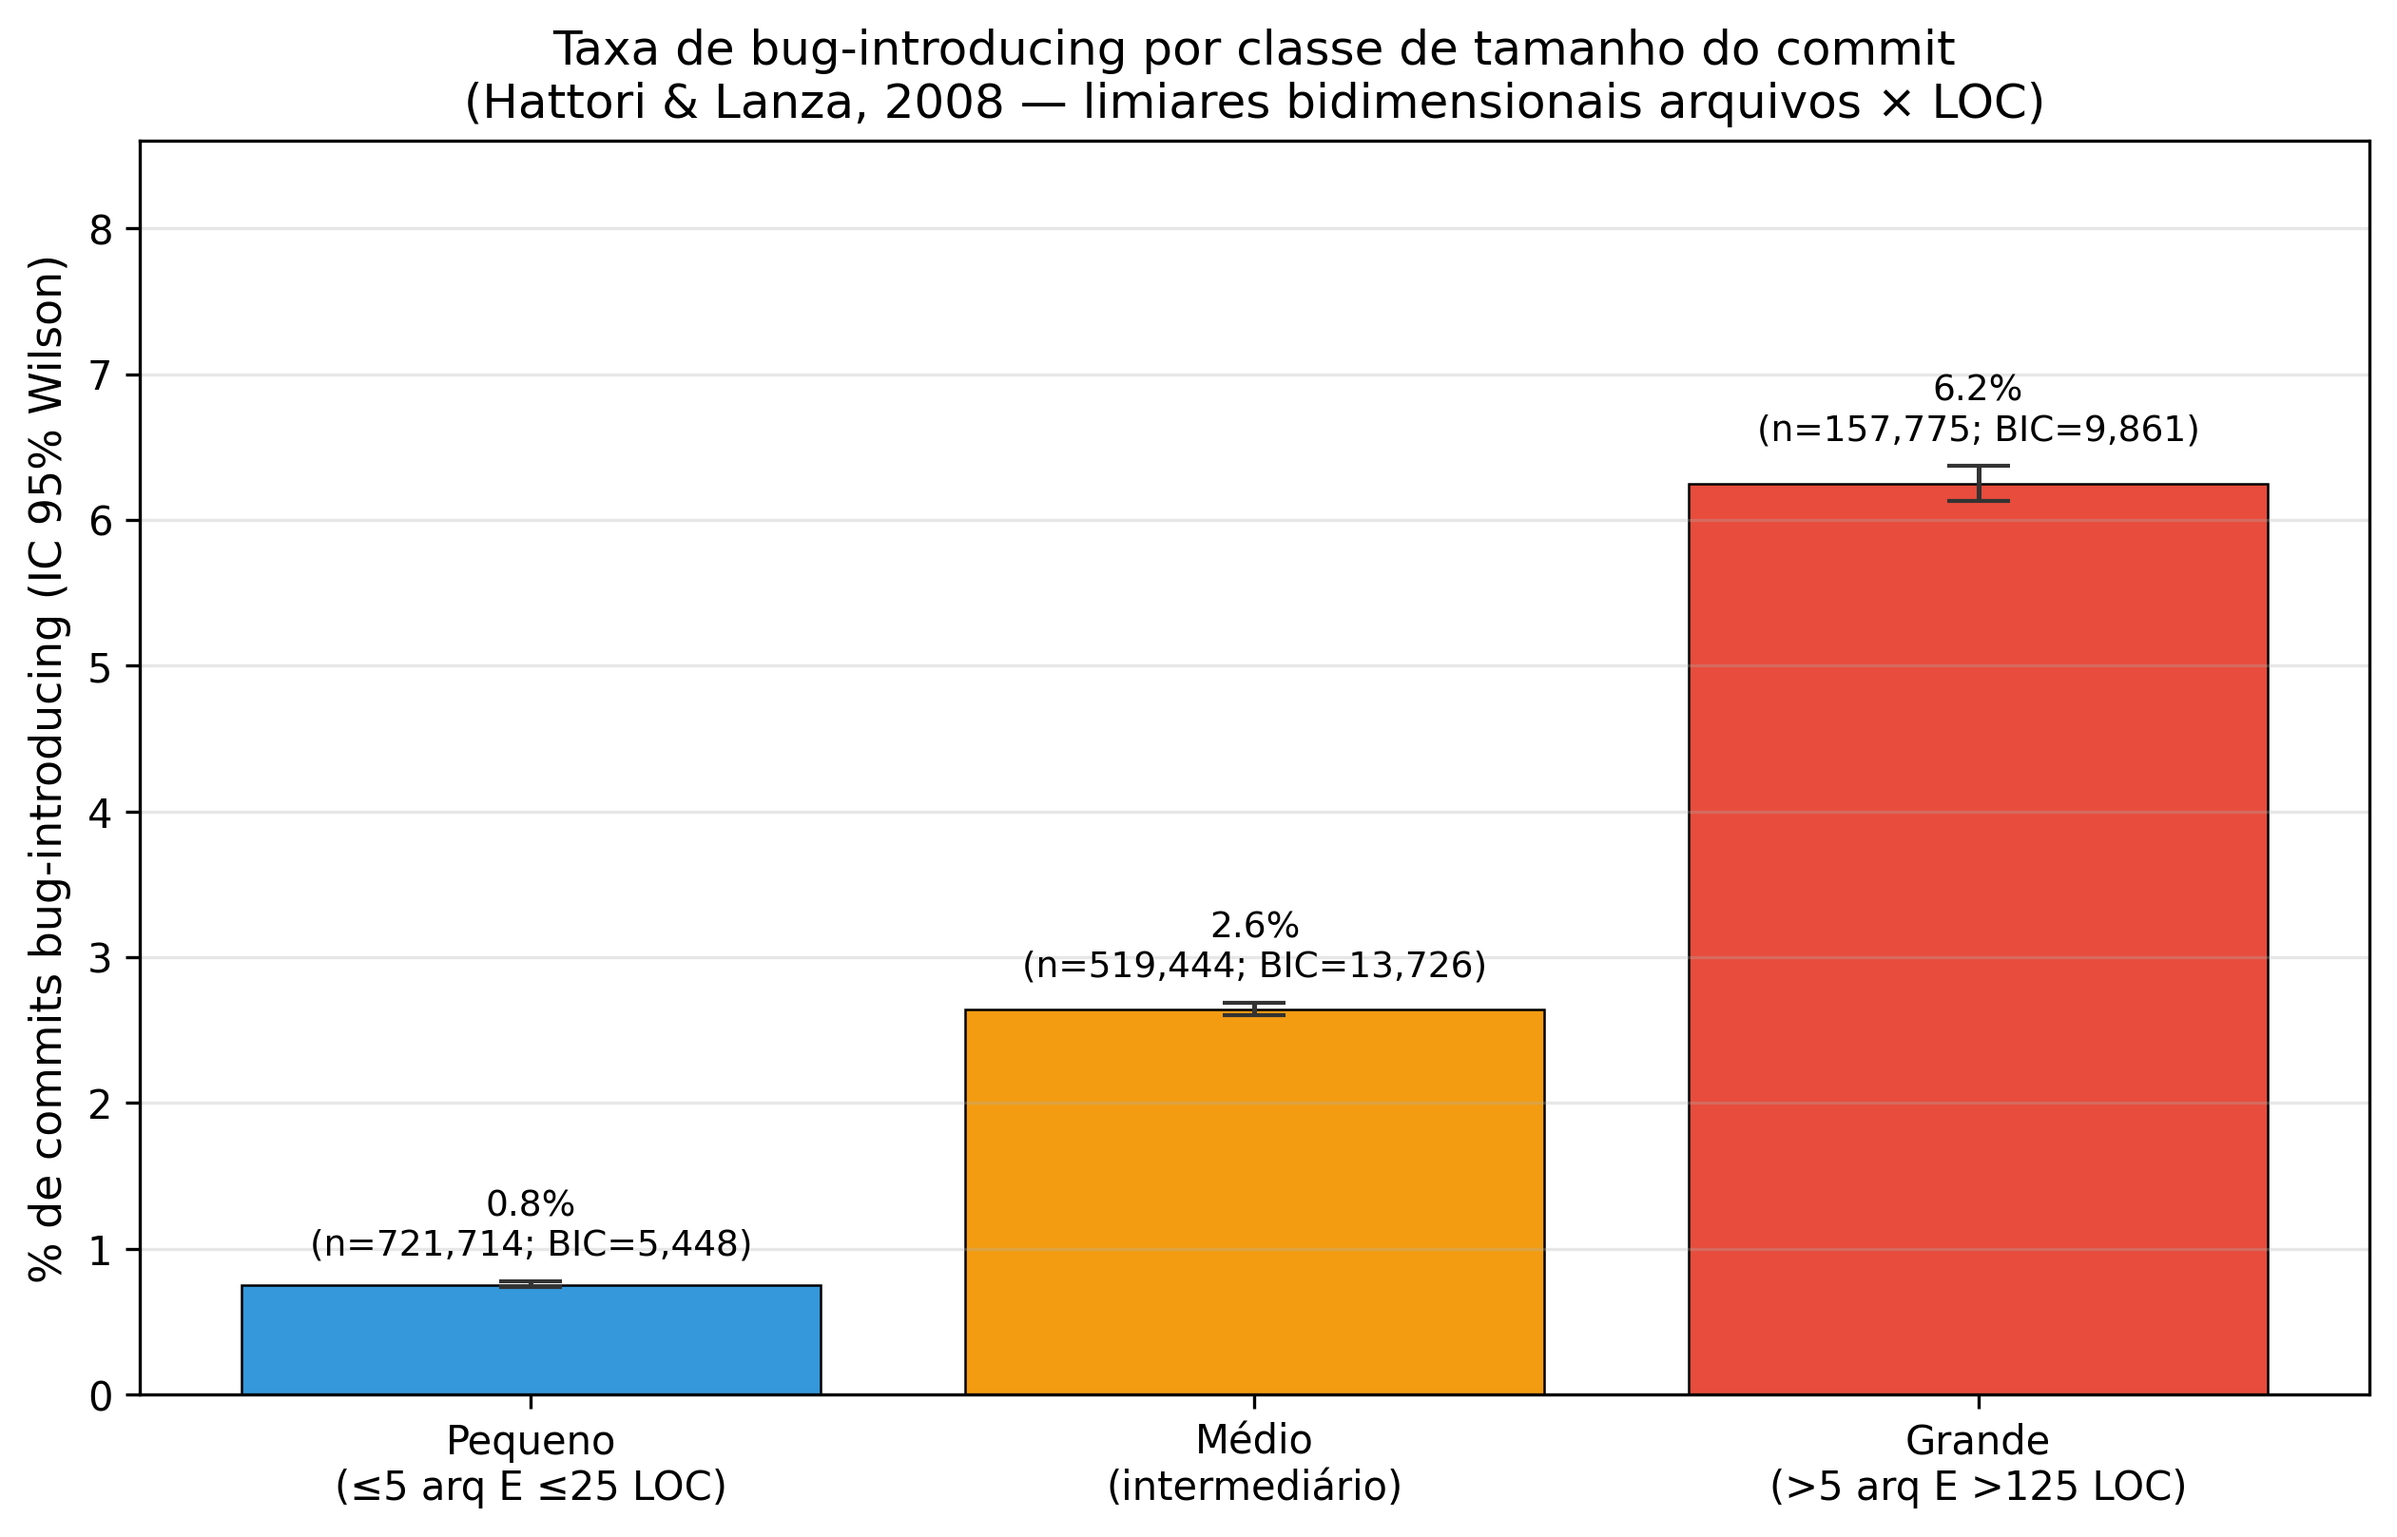
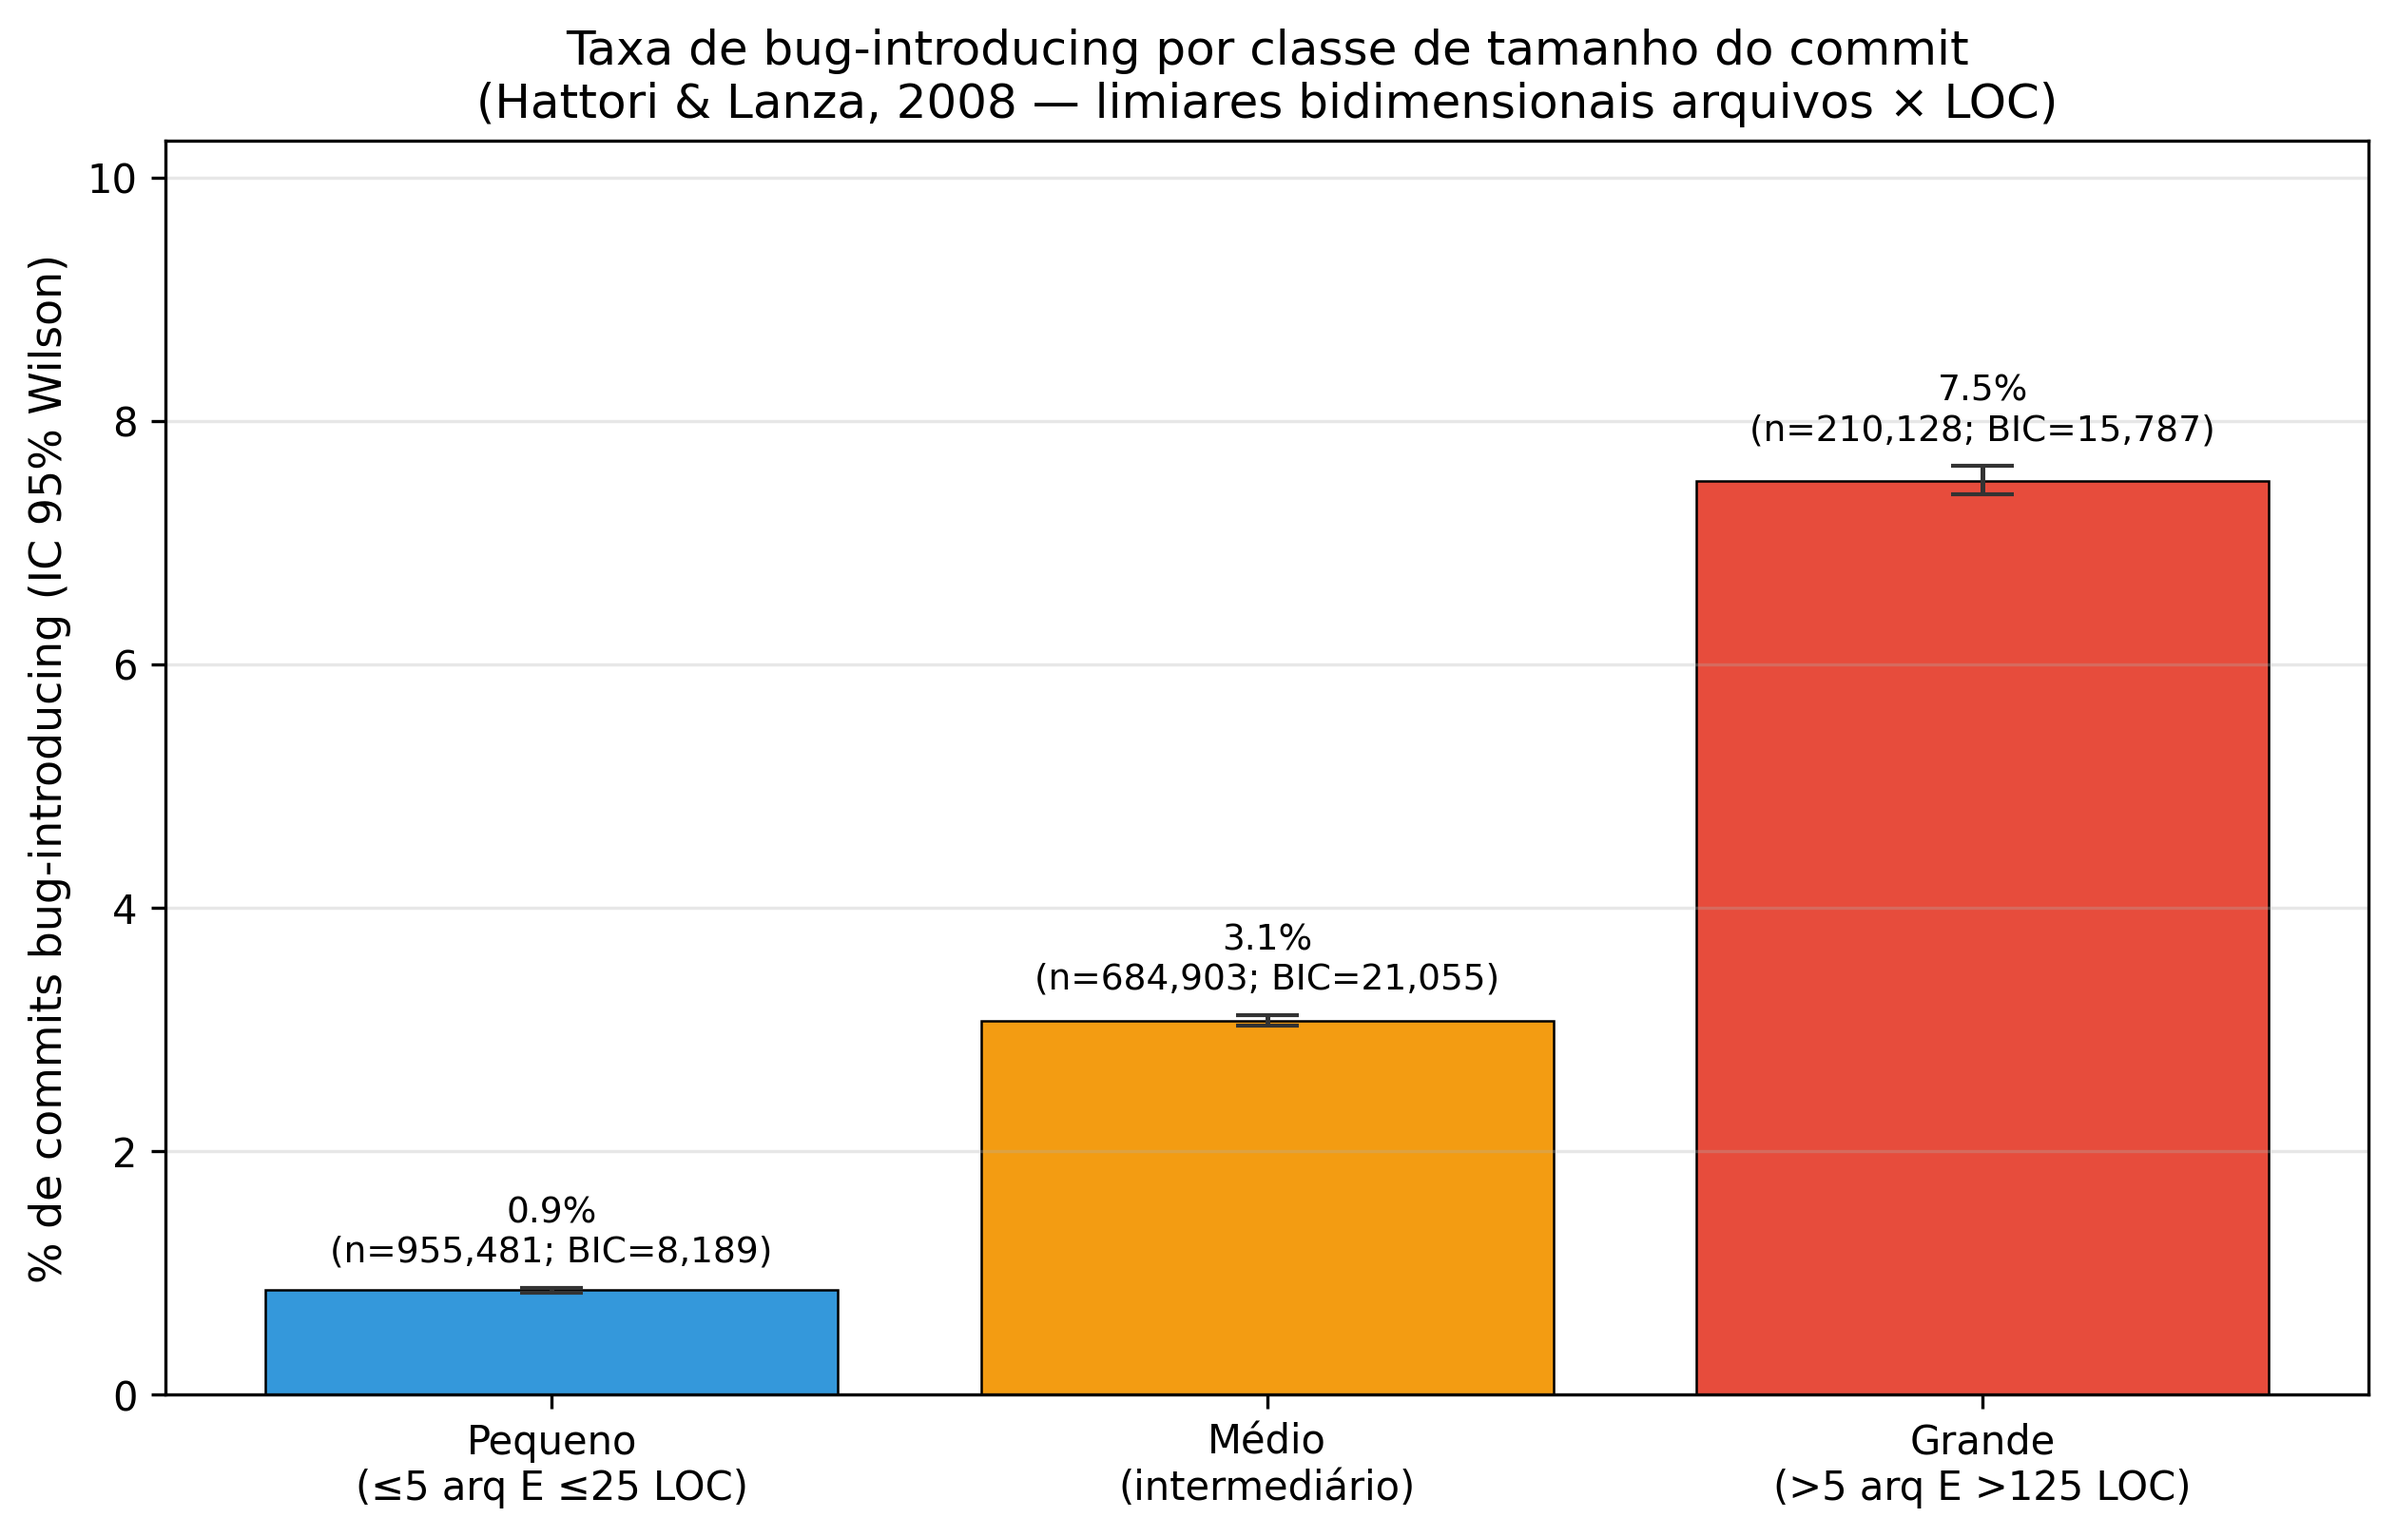
docs(q1): consolida análise com universo expandido para 460 repositórios
Atualiza os artefatos da Q1 para a base final da expansão 2026-06,
  substituindo os números intermediários (395 repos) pelos resultados
  definitivos de 460 repositórios efetivamente processados no SZZ.

  - METODOLOGIA: documenta o universo final (500 candidatos = 460 analisados
    + 38 filtrados como não-código + 2 inviáveis de extração) e adiciona as
    seções 7.5.3 (filtro de não-código) e 7.5.4 (exclusões da expansão).
  - slides/Q1_ATUALIZADO: sincroniza texto, tabelas e os 3 gráficos com os
    resultados finais (Cochran Z=179,5; chi²=34.021, Cramer's V=0,14;
    Spearman rho=0,135, p=0,0038, n=460).
  - step4: remove o n= do título do gráfico de Spearman (vinha do CSV).
  - logs/ERROS_LOTES: registra os incidentes que motivaram a exclusão de
    NVIDIA/TensorRT-LLM e ccxt/ccxt.

diff --git a/step4_analise_estatistica.py b/step4_analise_estatistica.py
@@ -339,7 +339,7 @@ def plot_pct_grande_vs_taxa_bic(df_repos: pd.DataFrame, rho: float, p_value: flo
     ax.set_ylabel("Taxa de bug-introducing no repositório (%)", fontsize=11)
     ax.set_title(
         f"Por repositório: frequência de commits grandes × taxa de BIC\n"
-        f"Spearman ρ = {rho:.3f}  (p = {p_value:.2e}, n={len(df_repos)})",
+        f"Spearman ρ = {rho:.3f}  (p = {p_value:.2e})",
         fontsize=12,
     )
     ax.grid(True, alpha=0.3)

diff --git a/METODOLOGIA.md b/METODOLOGIA.md
@@ -254,7 +254,7 @@ Seguindo a taxonomia de **Wohlin et al. (2012)**:
 
 - **Apenas Python**, apenas **GitHub**, apenas **projetos populares**. Generalizações para outras linguagens, ecossistemas (npm, Maven privados) ou enterprise software requerem estudos adicionais.
 - **Janela temporal**: analisamos o histórico completo dos repositórios; mudanças em práticas de engenharia ao longo dos anos podem afetar o sinal (estilos de commit modernos vs antigos).
-- **Repositórios excluídos por incompatibilidade de execução**: 2 dos 60 repositórios originais ficaram fora da análise final — `pytorch/pytorch` (incompatibilidade NTFS/case-sensitivity em Windows) e `Significant-Gravitas/AutoGPT` (erros recorrentes do SZZ). Detalhes em §7.5. O universo efetivo é portanto **58 repositórios**.
+- **Repositórios fora da análise**: dos **500** candidatos populares, **38** foram filtrados a priori por **não serem código Python** (listas curadas, cheatsheets, livros, skill packs, hosts files — vide §7.5.3) e **2** foram excluídos por **inviabilidade de execução/extração** (`pytorch/pytorch`, `Significant-Gravitas/AutoGPT`, e na expansão `NVIDIA/TensorRT-LLM`, `ccxt/ccxt` — §7.5.1, §7.5.2 e §7.5.4). O universo efetivo é de **460 repositórios**.
 
 ### 5.3 Validade de constructo
 
@@ -387,7 +387,33 @@ warning: Clone succeeded, but checkout failed.
 
 Ambos foram **excluídos da análise** após autorização explícita ("se continuar dando muito erro, apenas anote que esse repositório apresentou problemas e vai ser deixado fora da análise"). Tentativas de contornar problemas de filesystem (habilitar `core.protectNTFS=false`, migrar para WSL) foram avaliadas e rejeitadas pelo custo-benefício, dado que (a) cada repo excluído representa 100 fixes amostrados — perda marginal sobre 10.000+ fixes totais, e (b) a hipótese é robusta o suficiente para que perdas pontuais não comprometam a inferência.
 
-**Limitação declarada.** Os 2 repositórios excluídos representam uma **limitação de validade externa**: em sistemas Linux/macOS (case-sensitive por padrão), pytorch seria processado normalmente. Esta limitação é citada na §5.2. O universo final efetivamente analisado é de **58 repositórios** (de 60 originais).
+**Limitação declarada.** Os 2 repositórios excluídos representam uma **limitação de validade externa**: em sistemas Linux/macOS (case-sensitive por padrão), pytorch seria processado normalmente. Esta limitação é citada na §5.2.
+
+#### 7.5.3 Repositórios filtrados por não serem projetos de código Python
+
+Na fase de expansão do estudo, o universo de candidatos foi a lista dos **500 repositórios Python mais populares** do GitHub (`repos_python_populares.csv`). Nem todos, porém, são *software* em Python: muitos dos repositórios mais "estrelados" da plataforma são, na verdade, **conteúdo curado** — listas, materiais de estudo e coleções — que apenas estão classificados sob a linguagem Python pelo GitHub ou que não contêm código Python analisável.
+
+Como o SZZ deste estudo opera **exclusivamente sobre arquivos `.py`** (`file_ext_to_parse: ["py"]`, vide §7.4), rodá-lo sobre esses repositórios seria metodologicamente vazio: ou não há arquivos Python para fazer *blame*, ou o histórico não corresponde a desenvolvimento de software (são commits de documentação/dados gerados automaticamente). Por isso, **38 repositórios foram filtrados a priori** na geração dos lotes (`gerar_lotes.py`, lista `PADROES_SKIP`), por casarem com padrões de conteúdo não-código. As categorias:
+
+- **Listas curadas / "awesome"**: `public-apis/public-apis`, `RunaCapital/awesome-oss-alternatives`, `rossant/awesome-math`, `hesreallyhim/awesome-claude-code`, `github/awesome-copilot`, `LiLittleCat/awesome-free-chatgpt`.
+- **Cheatsheets / quizzes / exercícios**: `gto76/python-cheatsheet`, `OWASP/CheatSheetSeries`, `bregman-arie/devops-exercises`, `Ebazhanov/linkedin-skill-assessments-quizzes`, `satwikkansal/wtfpython`.
+- **Livros / materiais de estudo**: `Vonng/ddia`, `harvard-edge/cs249r_book`, `stas00/ml-engineering`, `0xAX/linux-insides`, `charlax/professional-programming`, `andkret/Cookbook`.
+- **Skill packs / templates de agentes** (não-código): `openai/skills`, `agentskills/agentskills`, `alirezarezvani/claude-skills`, `davila7/claude-code-templates`, `muratcankoylan/Agent-Skills-for-Context-Engineering`, `mvanhorn/last30days-skill`, `K-Dense-AI/scientific-agent-skills`, `Imbad0202/academic-research-skills`, `sickn33/antigravity-awesome-skills`, `Alishahryar1/free-claude-code`, `luongnv89/claude-howto`.
+- **Outros não-código**: `StevenBlack/hosts` (arquivo hosts), `edent/SuperTinyIcons` (SVG), `ungoogled-software/ungoogled-chromium` (patches C++), `521xueweihan/HelloGitHub`, `emmabostian/developer-portfolios`, `timqian/chinese-independent-blogs`, `cheahjs/free-llm-api-resources`, `ymcui/Chinese-LLaMA-Alpaca`, `EbookFoundation/free-programming-books`.
+
+A esses somam-se os **2 hard-excludes** por incompatibilidade de execução (§7.5.1–7.5.2, `pytorch/pytorch` e `Significant-Gravitas/AutoGPT`), totalizando **38 repositórios fora da análise por não serem código Python processável ou por incidente prévio**.
+
+#### 7.5.4 Repositórios excluídos por inviabilidade de extração (expansão 2026-06)
+
+Dois repositórios, embora elegíveis, **não puderam ser extraídos** e ficaram fora do universo final:
+
+- **`NVIDIA/TensorRT-LLM`**: após o disparo do `SZZ_FIX_TIMEOUT` (20 min) em um *fix* com *blame* patológico, o `del szz_inst` deadlockou no teardown do GitPython (subprocesso de blame interrompido pelo SIGALRM), pendurando o processo por horas. Excluído pelo mesmo critério de §7.5.2.
+- **`ccxt/ccxt`**: o `git log --numstat --all` excedeu o timeout de extração (600 s) por causa do histórico gigante; nenhum commit pôde ser coletado. Excluído por decisão custo-benefício (1 repo sobre 460).
+- *(`SimplifyJobs/Summer2026-Internships` também estourou a extração, mas é repo não-código — listagem de vagas em markdown — e pertence conceitualmente ao grupo de §7.5.3.)*
+
+Detalhes operacionais desses incidentes estão registrados em `logs/ERROS_LOTES.md`.
+
+**Universo final.** Dos 500 candidatos: **460 repositórios analisados**, 38 filtrados como não-código/incidente prévio e 2 excluídos por inviabilidade de extração (`460 + 38 + 2 = 500`). Esta limitação de validade externa é citada na §5.2.
 
 ### 7.6 Recuperação após o crash
 

diff --git a/logs/ERROS_LOTES.md b/logs/ERROS_LOTES.md
@@ -1,0 +1,43 @@
+# Erros registrados — execução dos lotes restantes (rodar_restantes.sh)
+
+## 2026-06-15 — Lote 38 travou em NVIDIA/TensorRT-LLM
+
+- **Repositório:** `NVIDIA/TensorRT-LLM` (lote 38)
+- **Fix:** `ad4226d946575546ecf429e3f6cb8abdcc02f69f` (fix 66 de 867 do lote)
+- **Sintoma:** `FIX TIMEOUT` disparou às 01:27:34 (SZZ_FIX_TIMEOUT=1200s), mas o
+  processo `main.py` (PID 84798) ficou pendurado em seguida — estado `SN`
+  (sleeping), 0% CPU, sem nenhum subprocesso git filho, por ~5h30 até ser morto.
+- **Causa raiz:** após o timeout, o `del szz_inst` (pyszz/main.py:173) aciona o
+  teardown do GitPython/PyDriller sobre um processo de blame que foi interrompido
+  no meio pelo SIGALRM → deadlock no cleanup. O timeout *registra* o aviso mas o
+  fix seguinte nunca começa. É determinístico para fixes patológicos desse repo
+  (arquivos enormes / blame explosivo em `tensorrt_llm/llmapi/mpi_session.py`).
+- **Ação:** `NVIDIA/TensorRT-LLM` EXCLUÍDO do universo (mesmo precedente de
+  `pytorch/pytorch` e `Significant-Gravitas/AutoGPT`, CLAUDE.md §"Repositories
+  excluded"). Lote 38 reprocessado sem ele (`lotes/lote_38b.txt`).
+- **Impacto nos resultados:** universo final perde 1 repo (TensorRT-LLM). Os
+  outros 9 repos do lote 38 entram normalmente.
+
+## 2026-06-15 — Lote 42 (pendencias): timeout de extracao em 2 repos
+
+- **`ccxt/ccxt`** (lote 42)
+  - **Sintoma:** `git log --numstat --all` estourou o timeout de extracao
+    (600s, processar_lote.py:127) por causa do historico gigante → 0 commits,
+    0 bug-fixes extraidos.
+  - **Acao:** EXCLUIDO do universo (decisao do usuario em 2026-06-15: nao vale o
+    custo de reprocessar 1 repo de 460). Codigo real, mas extracao inviavel no
+    timeout padrao.
+- **`SimplifyJobs/Summer2026-Internships`** (lote 42)
+  - **Sintoma:** mesmo timeout de `git log`. Na pratica e repo NAO-CODIGO
+    (listagem de vagas em markdown, commits automaticos), pertence ao mesmo
+    grupo dos 38 repos filtrados por PADROES_SKIP em gerar_lotes.py.
+  - **Acao:** EXCLUIDO (nao-codigo).
+
+## Resumo do universo final (2026-06-15)
+
+- CSV de populares: 500 repos
+- Nos resultados (pyszz/output_raszz.json): **460 repos**
+- Filtrados como nao-codigo (PADROES_SKIP) + hard-excludes: 38
+- Excluidos por incidente de execucao: 2 (NVIDIA/TensorRT-LLM, ccxt/ccxt)
+  - obs.: SimplifyJobs/Summer2026-Internships conta como nao-codigo, nao incidente
+- 500 = 460 + 38 + 2 ✓
